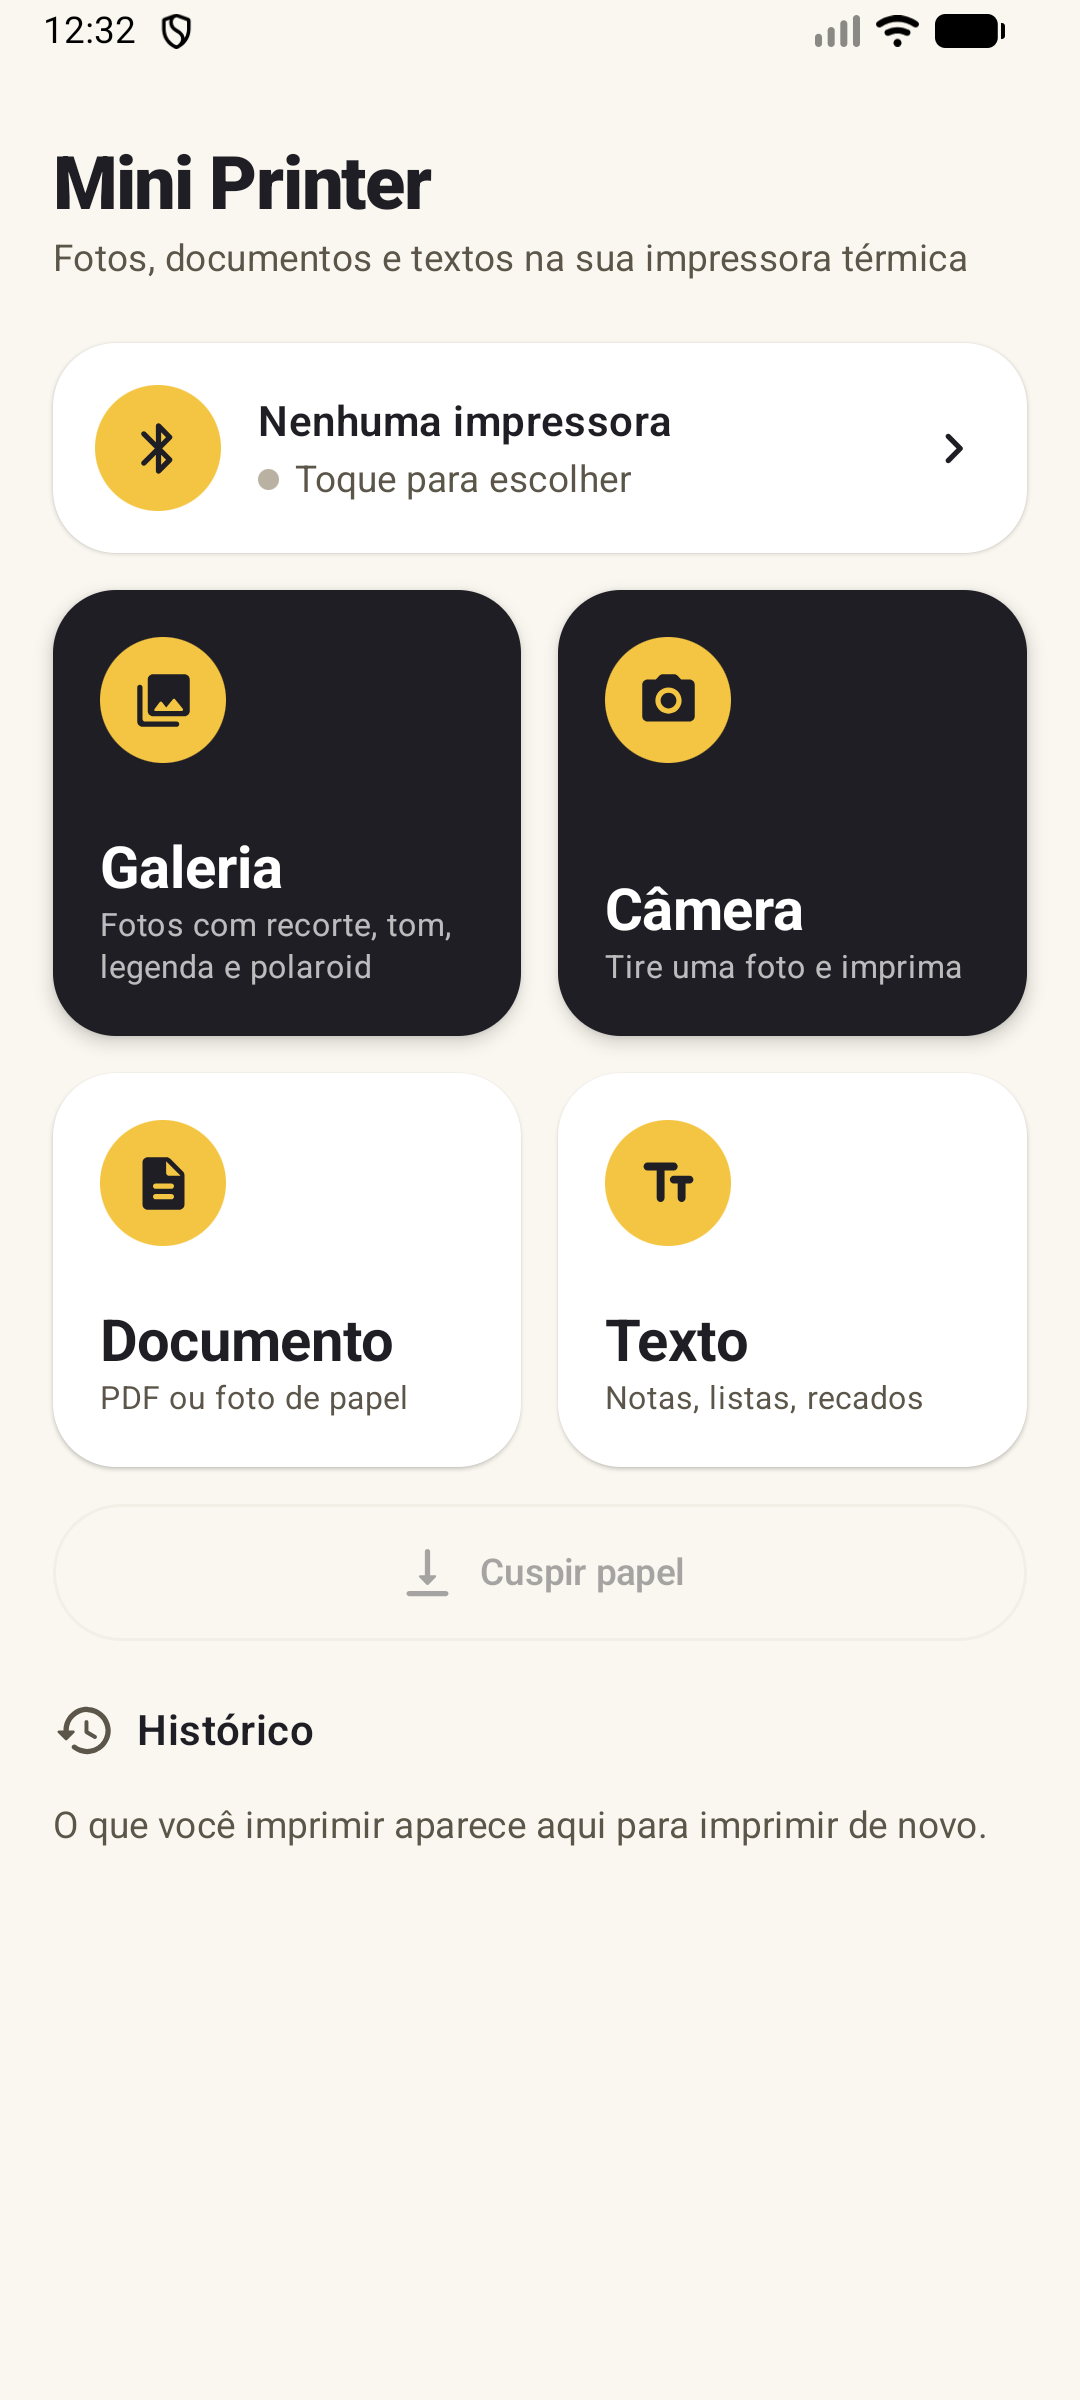
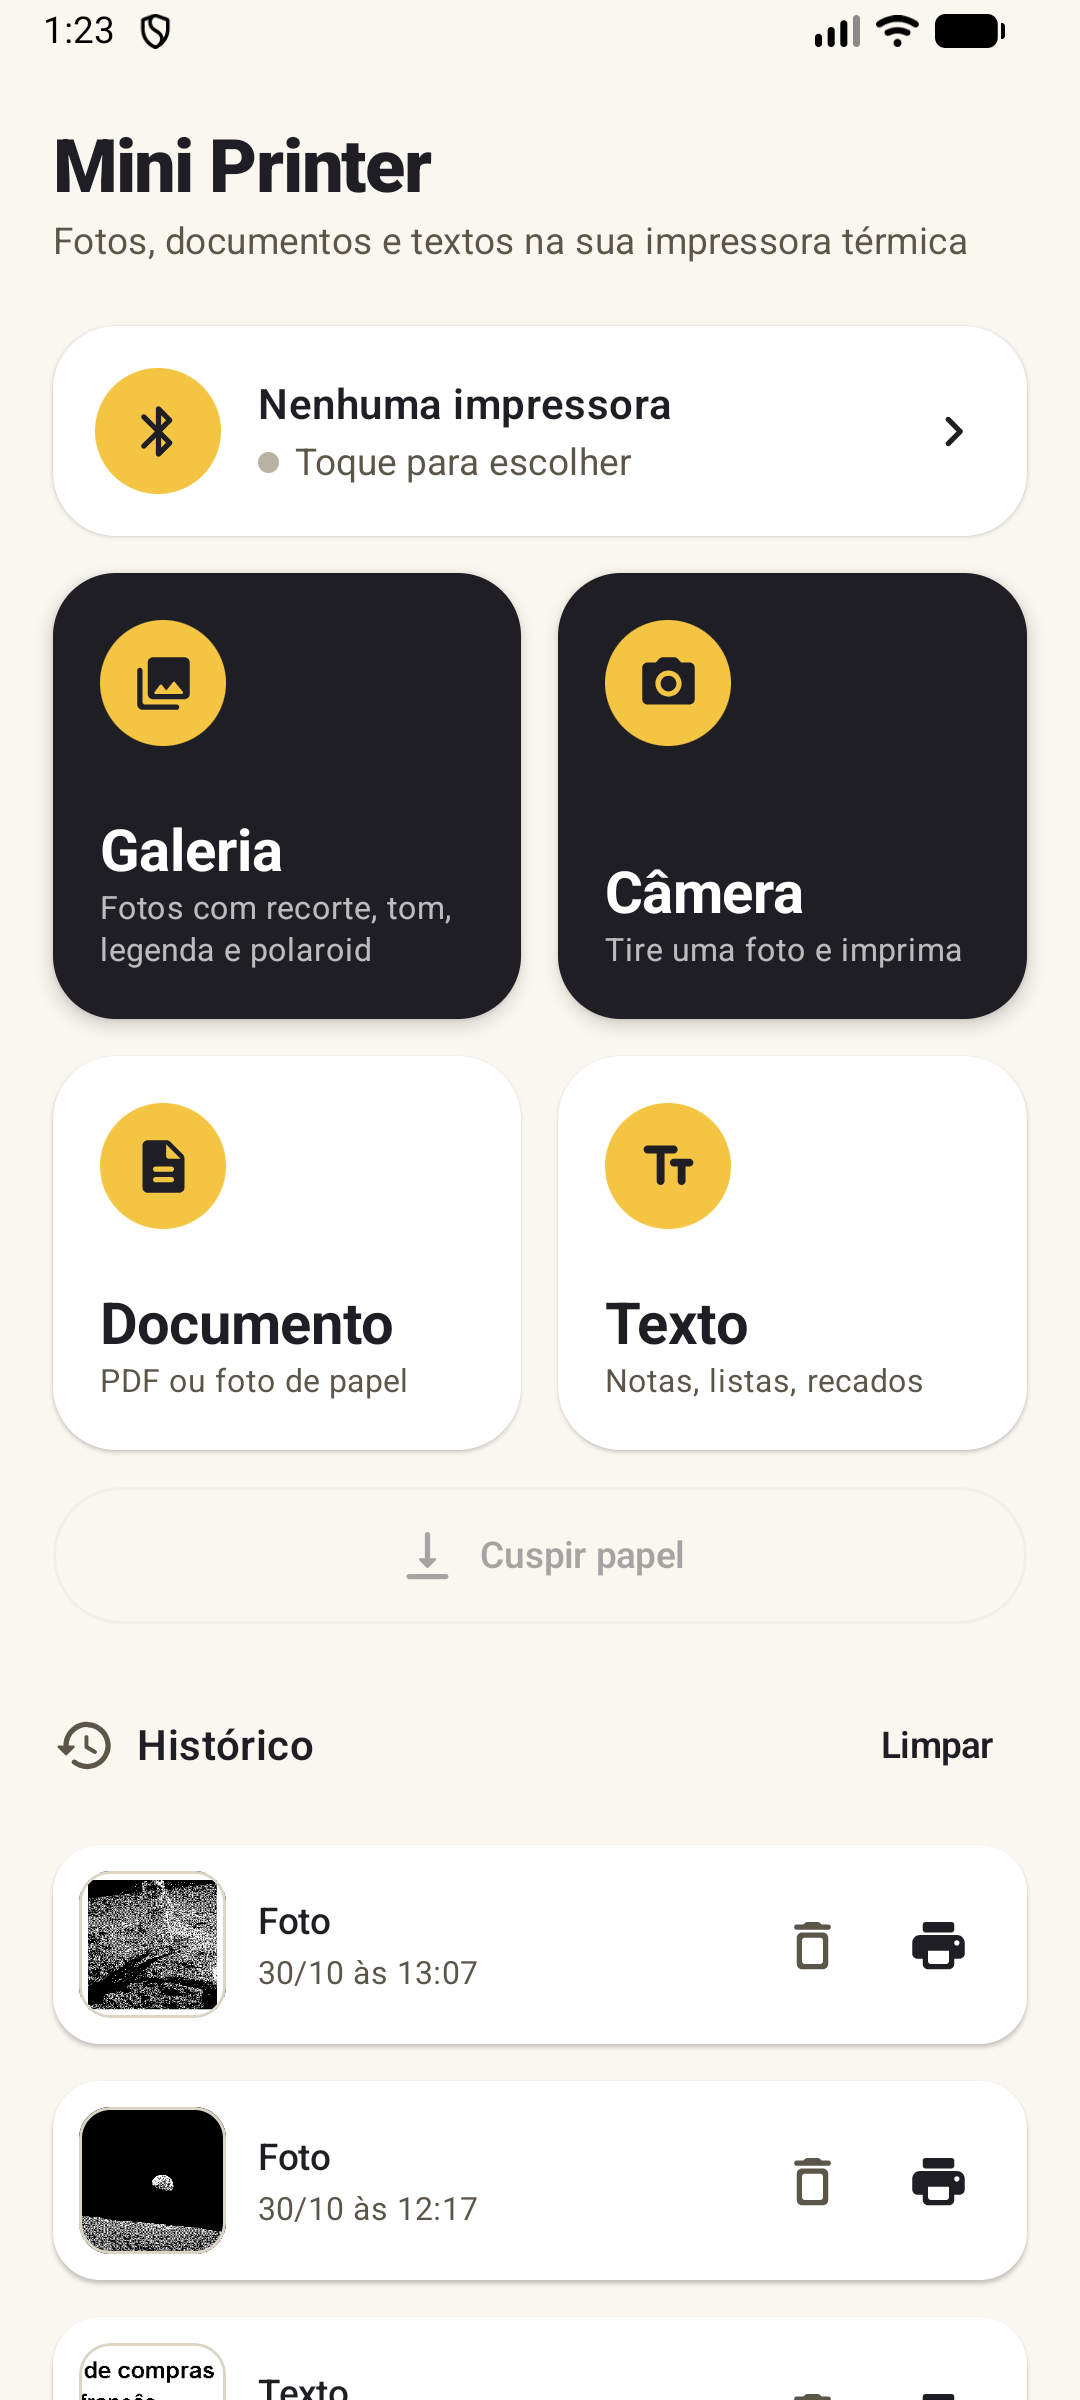
README: printer photo, editor screenshot, home with history

diff --git a/README.md b/README.md
@@ -1,5 +1,5 @@
 <p align="center">
-  <img src="docs/images/printer.svg" width="320" alt="Ilustração de uma mini impressora térmica">
+  <img src="docs/images/printer-photo.webp" width="360" alt="Mini impressora térmica Bluetooth">
 </p>
 
 <h1 align="center">Mini Printer</h1>
@@ -18,14 +18,16 @@
 ## Telas
 
 <p align="center">
-  <img src="docs/images/home.png" width="260" alt="Tela inicial">
-  &nbsp;&nbsp;
-  <img src="docs/images/settings.png" width="260" alt="Configurações da impressora">
+  <img src="docs/images/home.png" width="250" alt="Tela inicial com histórico">
+  &nbsp;
+  <img src="docs/images/editor.png" width="250" alt="Editor de foto com ajuste de tom e pontilhado">
+  &nbsp;
+  <img src="docs/images/settings.png" width="250" alt="Configurações da impressora">
 </p>
 
 ## Recursos
 
-- **Galeria e câmera** — recorte, rotação e espelhamento, ajuste de tom, bordas (incluindo polaroid) e legenda. Várias fotos de uma vez.
+- **Galeria e câmera** — recorte, rotação e espelhamento, ajuste de tom, pontilhado (Floyd–Steinberg, Atkinson, Bayer, limiar), bordas (incluindo polaroid) e legenda. Várias fotos de uma vez.
 - **Documento** — PDF página a página ou foto de papel.
 - **Texto** — notas, listas e recados com fonte, tamanho e negrito.
 - **Compartilhar** — imprima direto de outros apps (imagens, PDF e texto) pelo menu "Compartilhar".
@@ -58,3 +60,5 @@ Requer JDK 17 e Android SDK 36.
 ## Licença
 
 [MIT](LICENSE). Projeto independente, sem vínculo com fabricantes de impressoras ou outros apps.
+
+Foto usada nas capturas de tela: Buzz Aldrin na Apollo 11 (NASA, domínio público).
